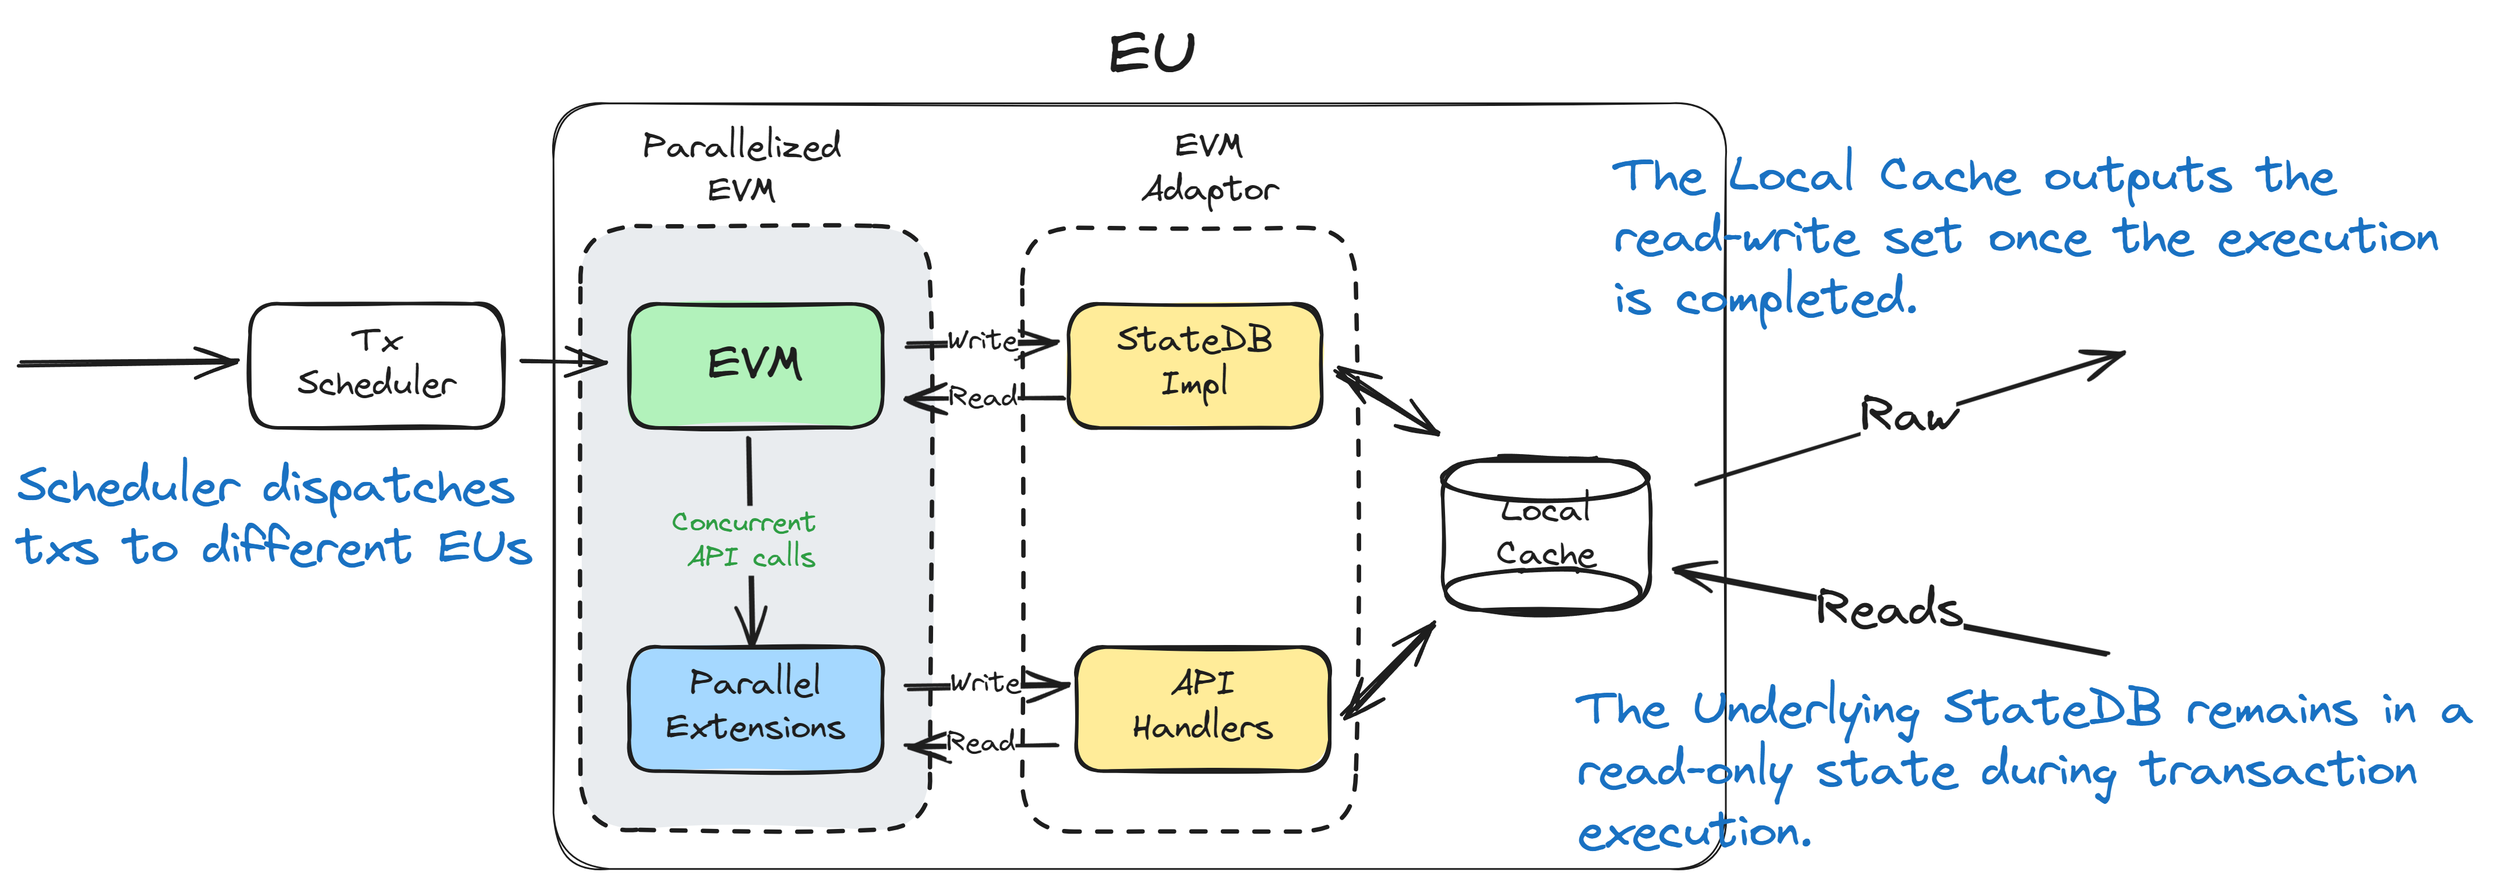
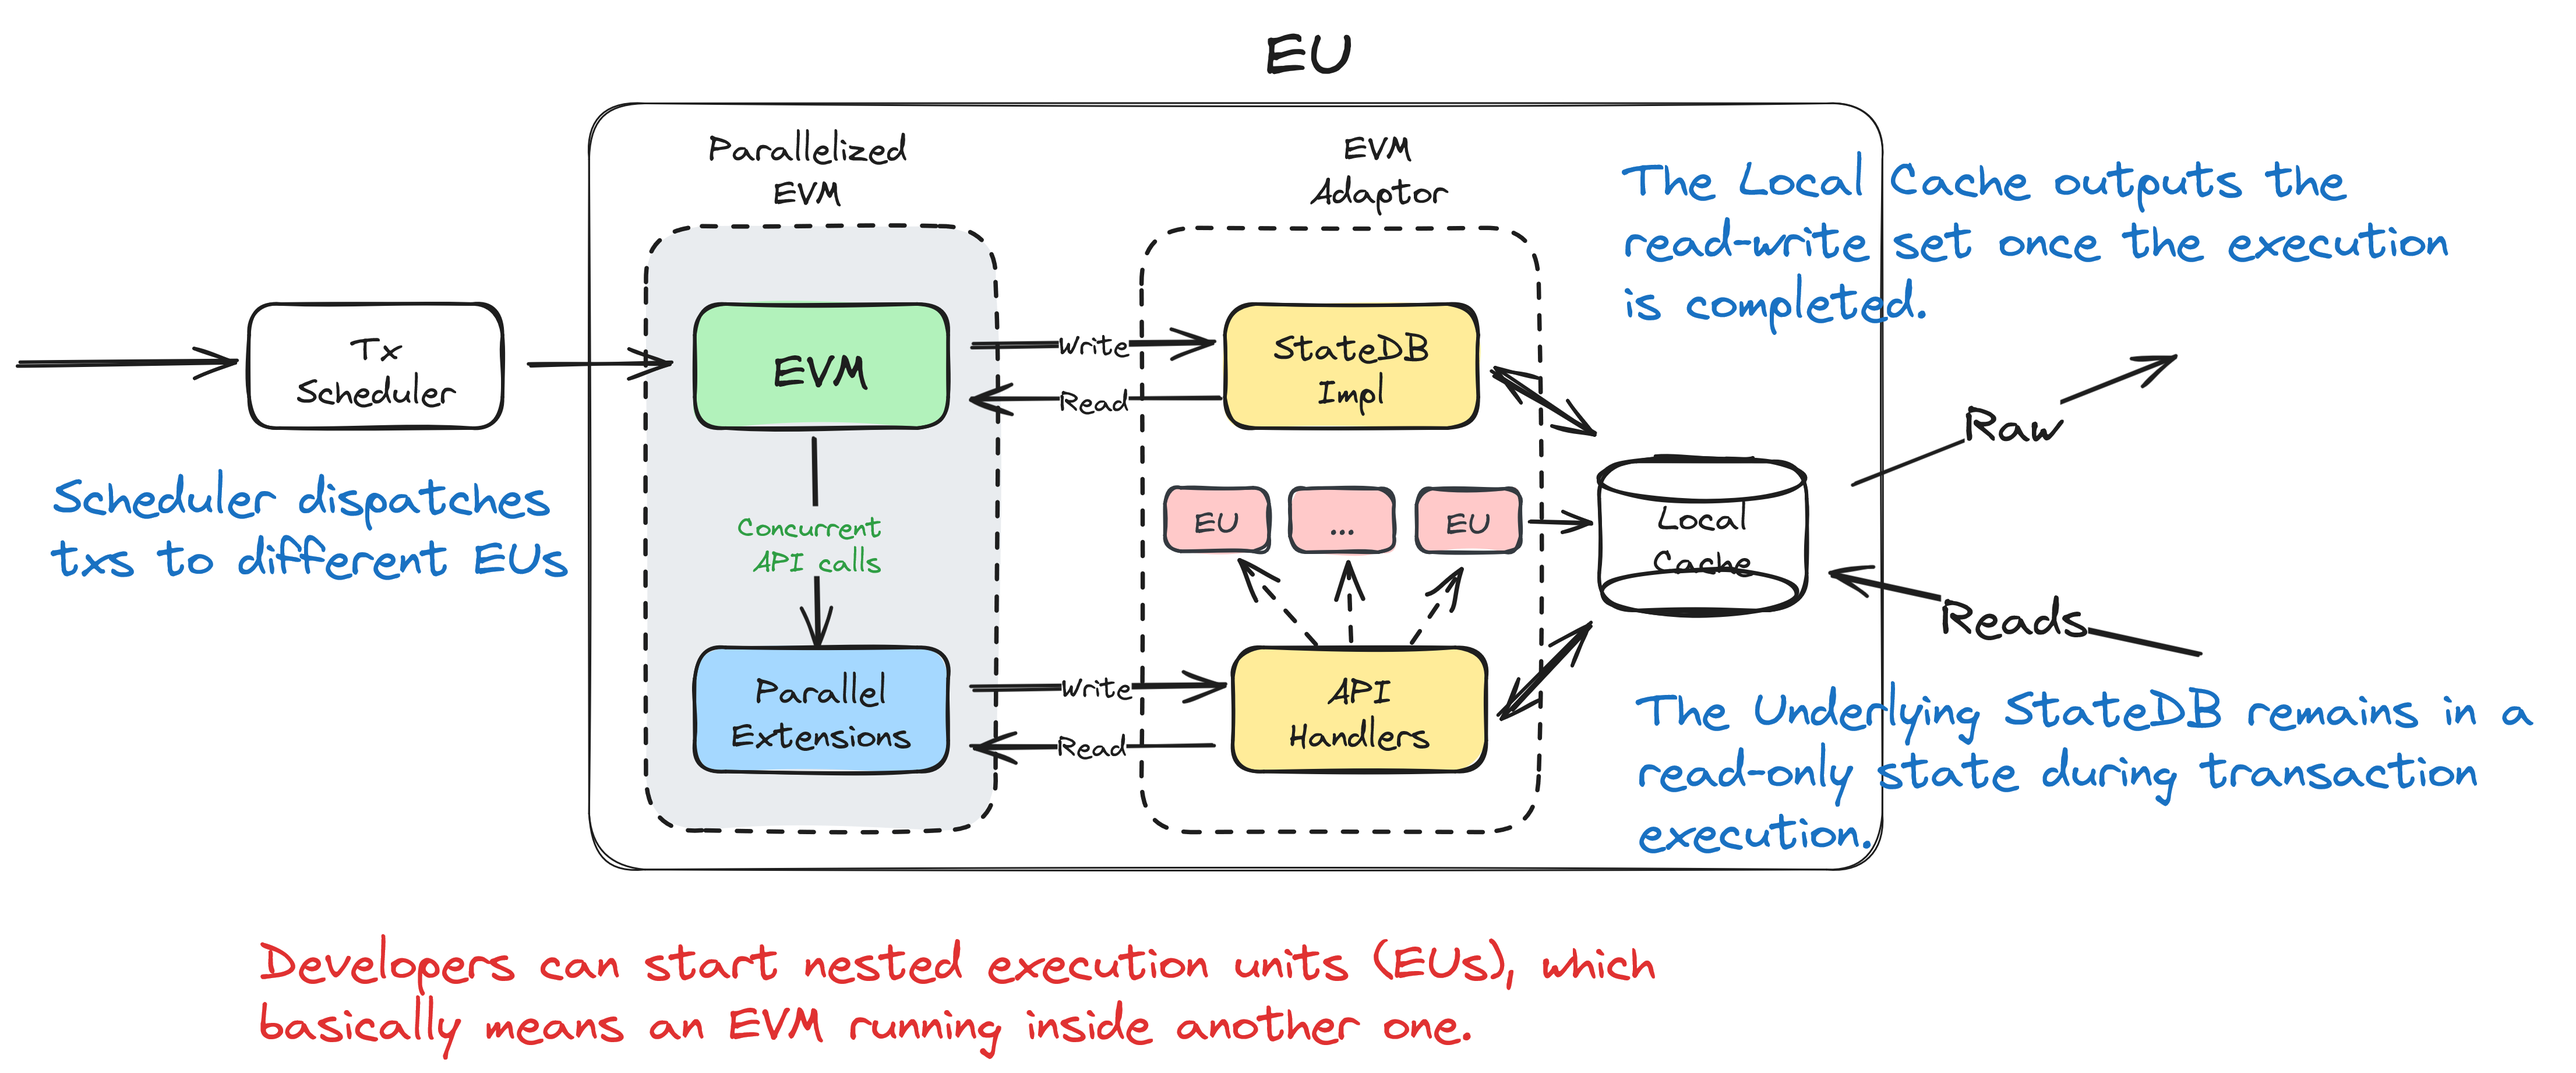
Update README.md with changes to EU project

diff --git a/README.md b/README.md
@@ -1,64 +1,44 @@
-## eu
+<h1> eu  <img align="center" height="40" src="./img/cpu.svg">  </h1>
+
 The EU project introduces an Abstract Execution Unit that serves as a transaction processing unit on the Arcology network. This module is designed to be VM-agnostic, providing a versatile solution for transaction processing. The module comprises two fundamental components.
 
 - **[Parallelized EVM](https://github.com/arcology-network/concurrent-evm):** A module responsible for parallelizing the Ethereum Virtual Machine (EVM) on Arcology Network.
 
 - **[EVM-adaptor](https://github.com/arcology-network/vm-adaptor):** A module functioning as a middleware to connect to the parallelized EVM, managing executable messages as input and producing state transitions as output.
 
+- A local Write Cache to temporarily store data before persist them to the stateDB
+
 <p align="center">
 <img src="./img/eu.png" alt="eu">
 </p>
 
-## Input and Output
+<h2> Input and Output  <img align="center" height="40" src="./img/input.svg">  </h2>
 
 - **Input:** Executable messages from either the executor module or the Multiprocessor API calls.
 
 - **Output:** State transitions generated as output from the EVM-adaptor module.
 
+<h2> Nested EUs  <img align="center" height="35" src="./img/stack.svg">  </h2>
 
-## Multiprocessor Handling
+As mentioned in the evm-adaptor project, it is possible to start a new EVM within another. The consequence is that nesting EVMs becomes possible. 
 
-The Multiprocessor module within the EU project enables developers to manually initiate multiple independent threads for concurrent function execution on the Arcology network using the [concurrent API in Solidity](https://github.com/arcology-network/concurrentlib). It is the focal point for handling all multiprocessor-related logic within the EU project. The module is responsible for the following tasks:
+The Multiprocessor module handles the EVM instances manually initiated using the the [concurrent API](https://github.com/arcology-network/concurrentlib). Once called, the hosting VM will initiates a `Multiprocessor` and specifying the maximum level of parallelism it can expect. The child EVMs will be terminated when all executions are completed.
 
-- Start Multiprocessor:
-Initiates the Multiprocessor to enable parallel processing.
+The child EVMs have their own storage snapshots and no access to each other's data during execution. The state changes will be merged back into the parent EVM when the execution is finally done, and the child EVMs will be destroyed. The hosting EVM is responsible for **deterministically** merging children's snapshots together.
 
-- Wrap Function Calls into Messages:
-Converts function calls into messages for concurrent processing.
 
-- Start Multiple EVM Instances:
-Initiates multiple instances of the Ethereum Virtual Machine.
+### Max Depth
 
-- Make Snapshots from Individual Threads:
-Captures snapshots from individual threads for further processing.
+* The maximum level for nested EVMs is 4; anything attempt to go beyong that will result in execution revert together with all the EVM above it.
 
-- Feed Messages with State Snapshot and Start Processing:
-Combines messages with state snapshots and initiates parallel processing.
+### Max EVM Instances
 
-- Handling Runtime Errors:
-Manages errors occurring during execution at runtime.
+* There is no theoretical limit on how many EVM instances can run simultaneously. However, for practical reasons and to maintain memory usage within a reasonable range, there is a maximum of 2048 EVM instances on a single physical machine. Cluster deployments do not have this limit.
 
-- Logging Execution-Related Errors:
-Logs errors encountered during the execution process.
+<h2> Usage  <img align="center" height="40" src="./img/code.svg">  </h2>
 
-- Manage and Terminate Threads:
-Handles the creation and termination of threads initiated by the Multiprocessor.
-
-- Revert Transition Changes:
-Reverts transition changes generated by threads in case of errors.
-
-- Merge State Changes by Different Threads:
-Merges state changes from different threads back into the main thread.
-
-- Merge State Changes Back to the Main Thread:
-Finalizes the process by merging state changes back into the main thread for a coherent result.
-
-- Terminate the Threads:
-The threads will be terminated when all executions have been completed, together with thire state snapshots.
-
-## Usage
 For details on how to integrate and use the EU project's Multiprocessor module, refer to the documentation.
 Feel free to contribute and report issues in the GitHub repository.
 
-## License
+<h2> License  <img align="center" height="35" src="./img/license.svg">  </h2>
 This project is licensed under the MIT License.
